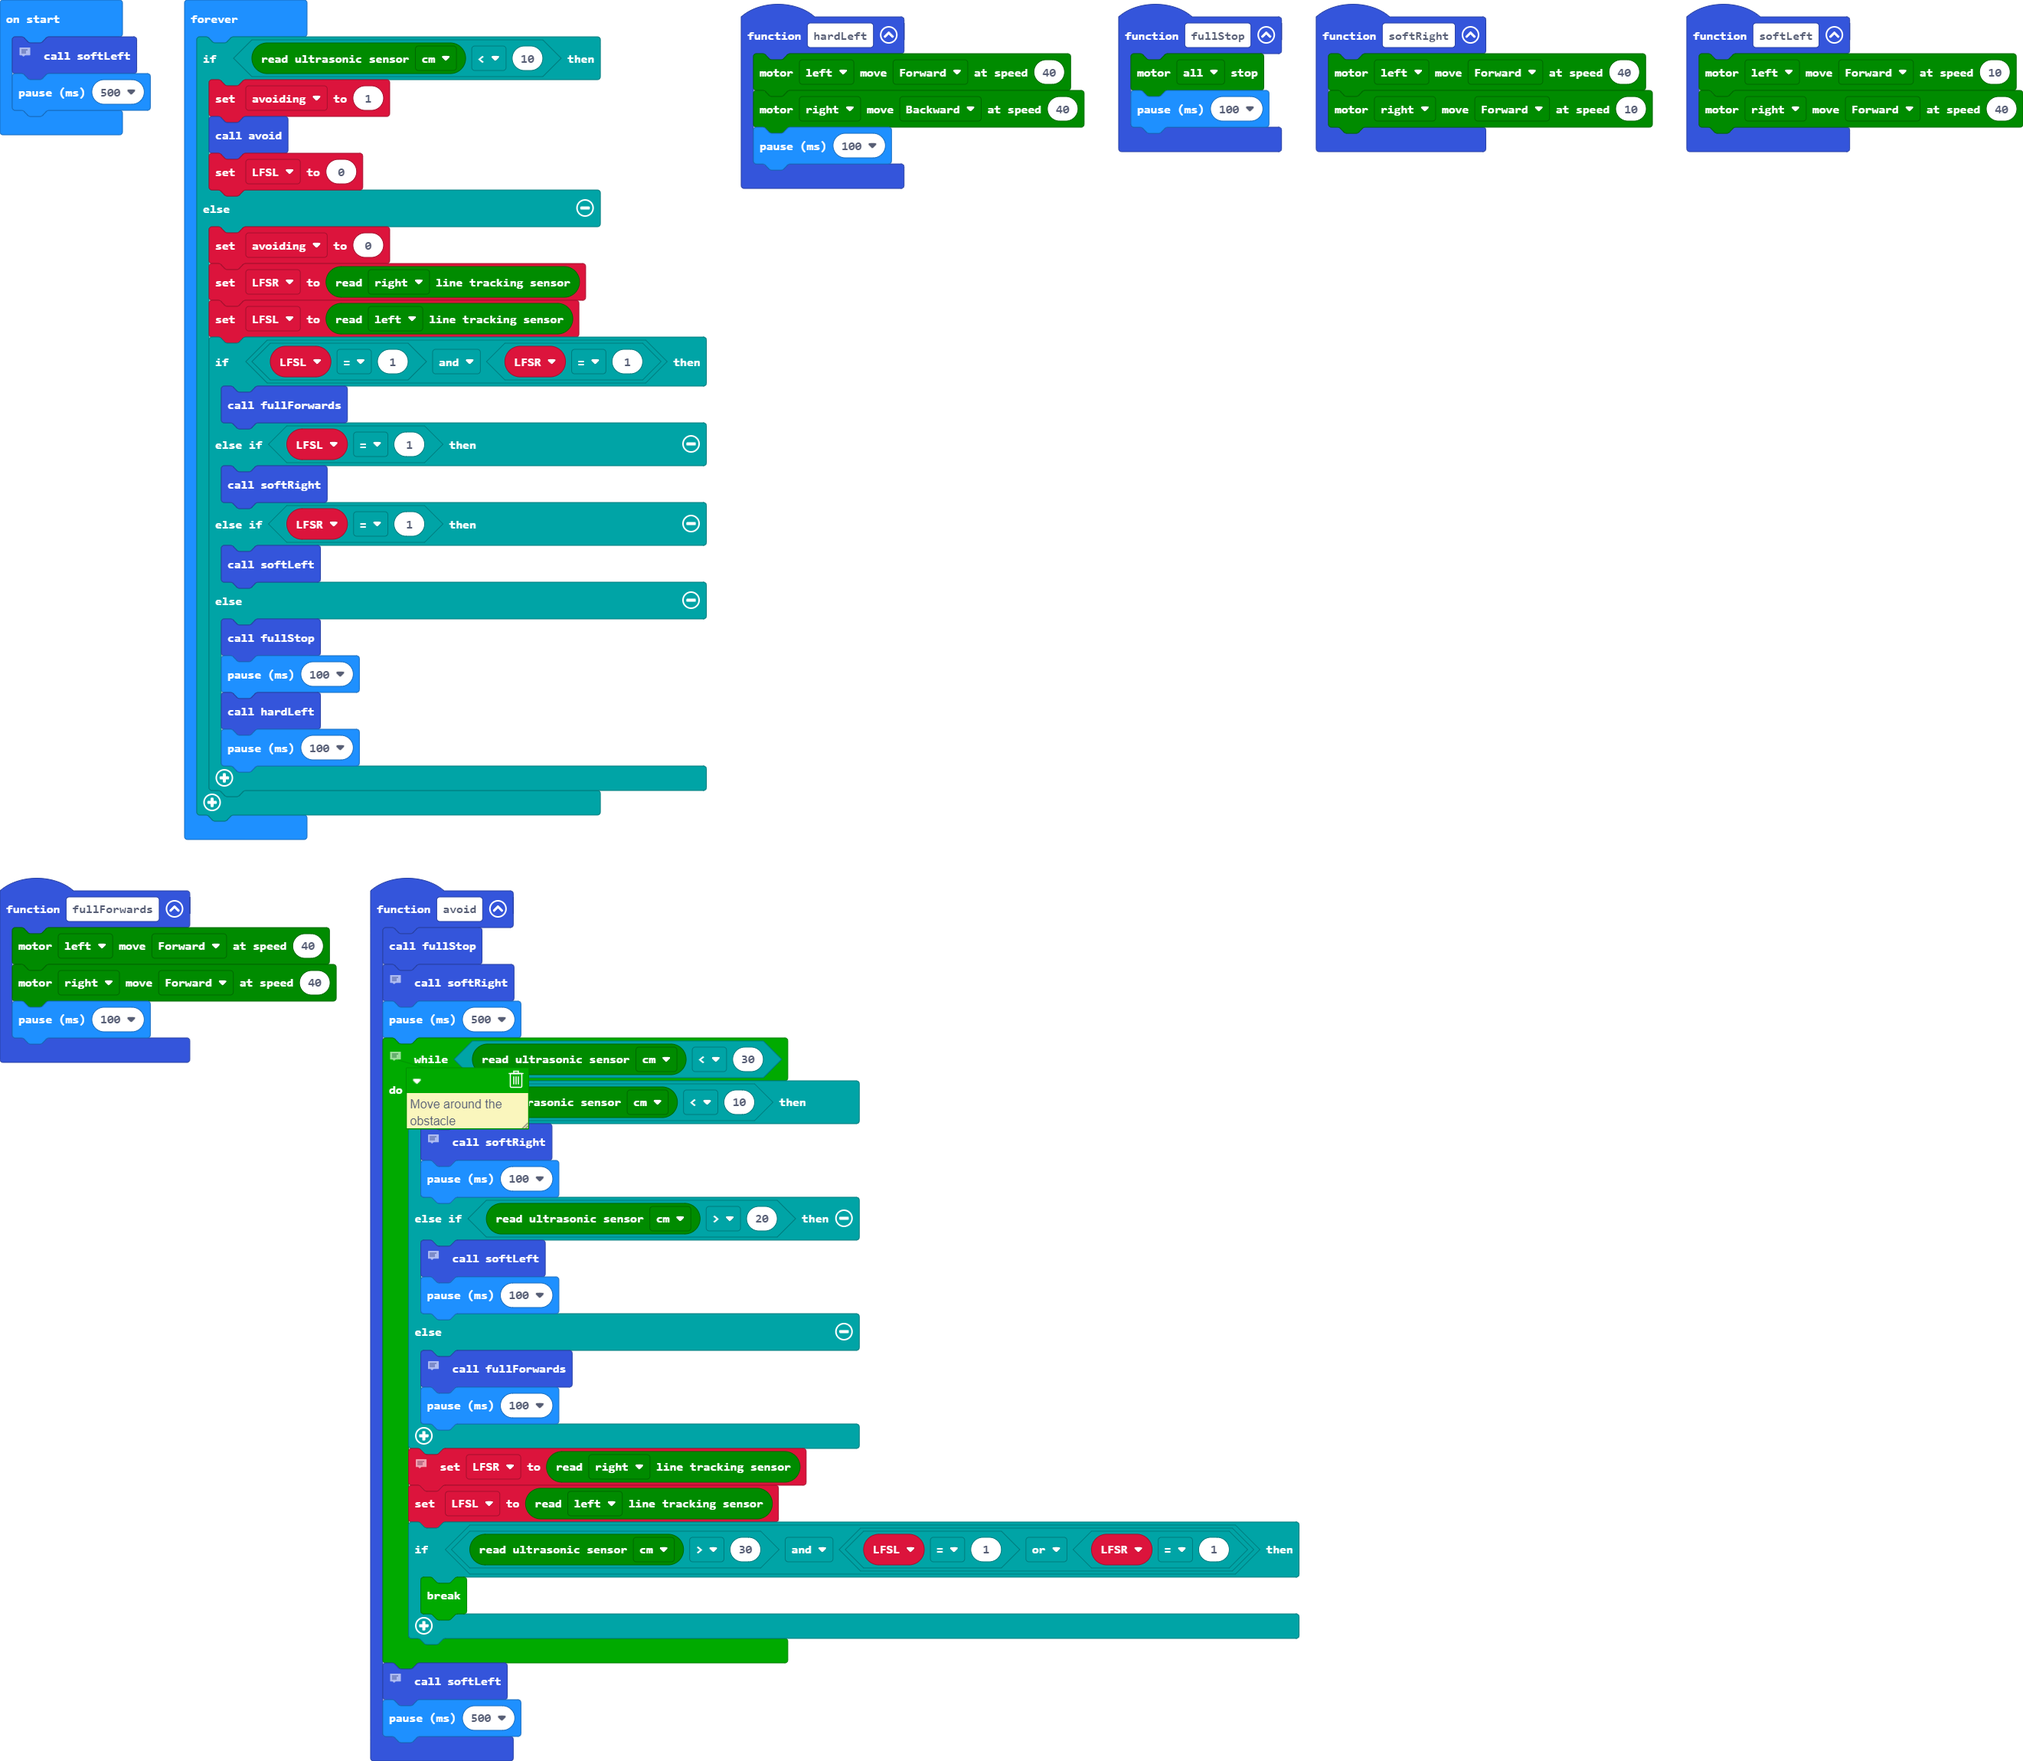
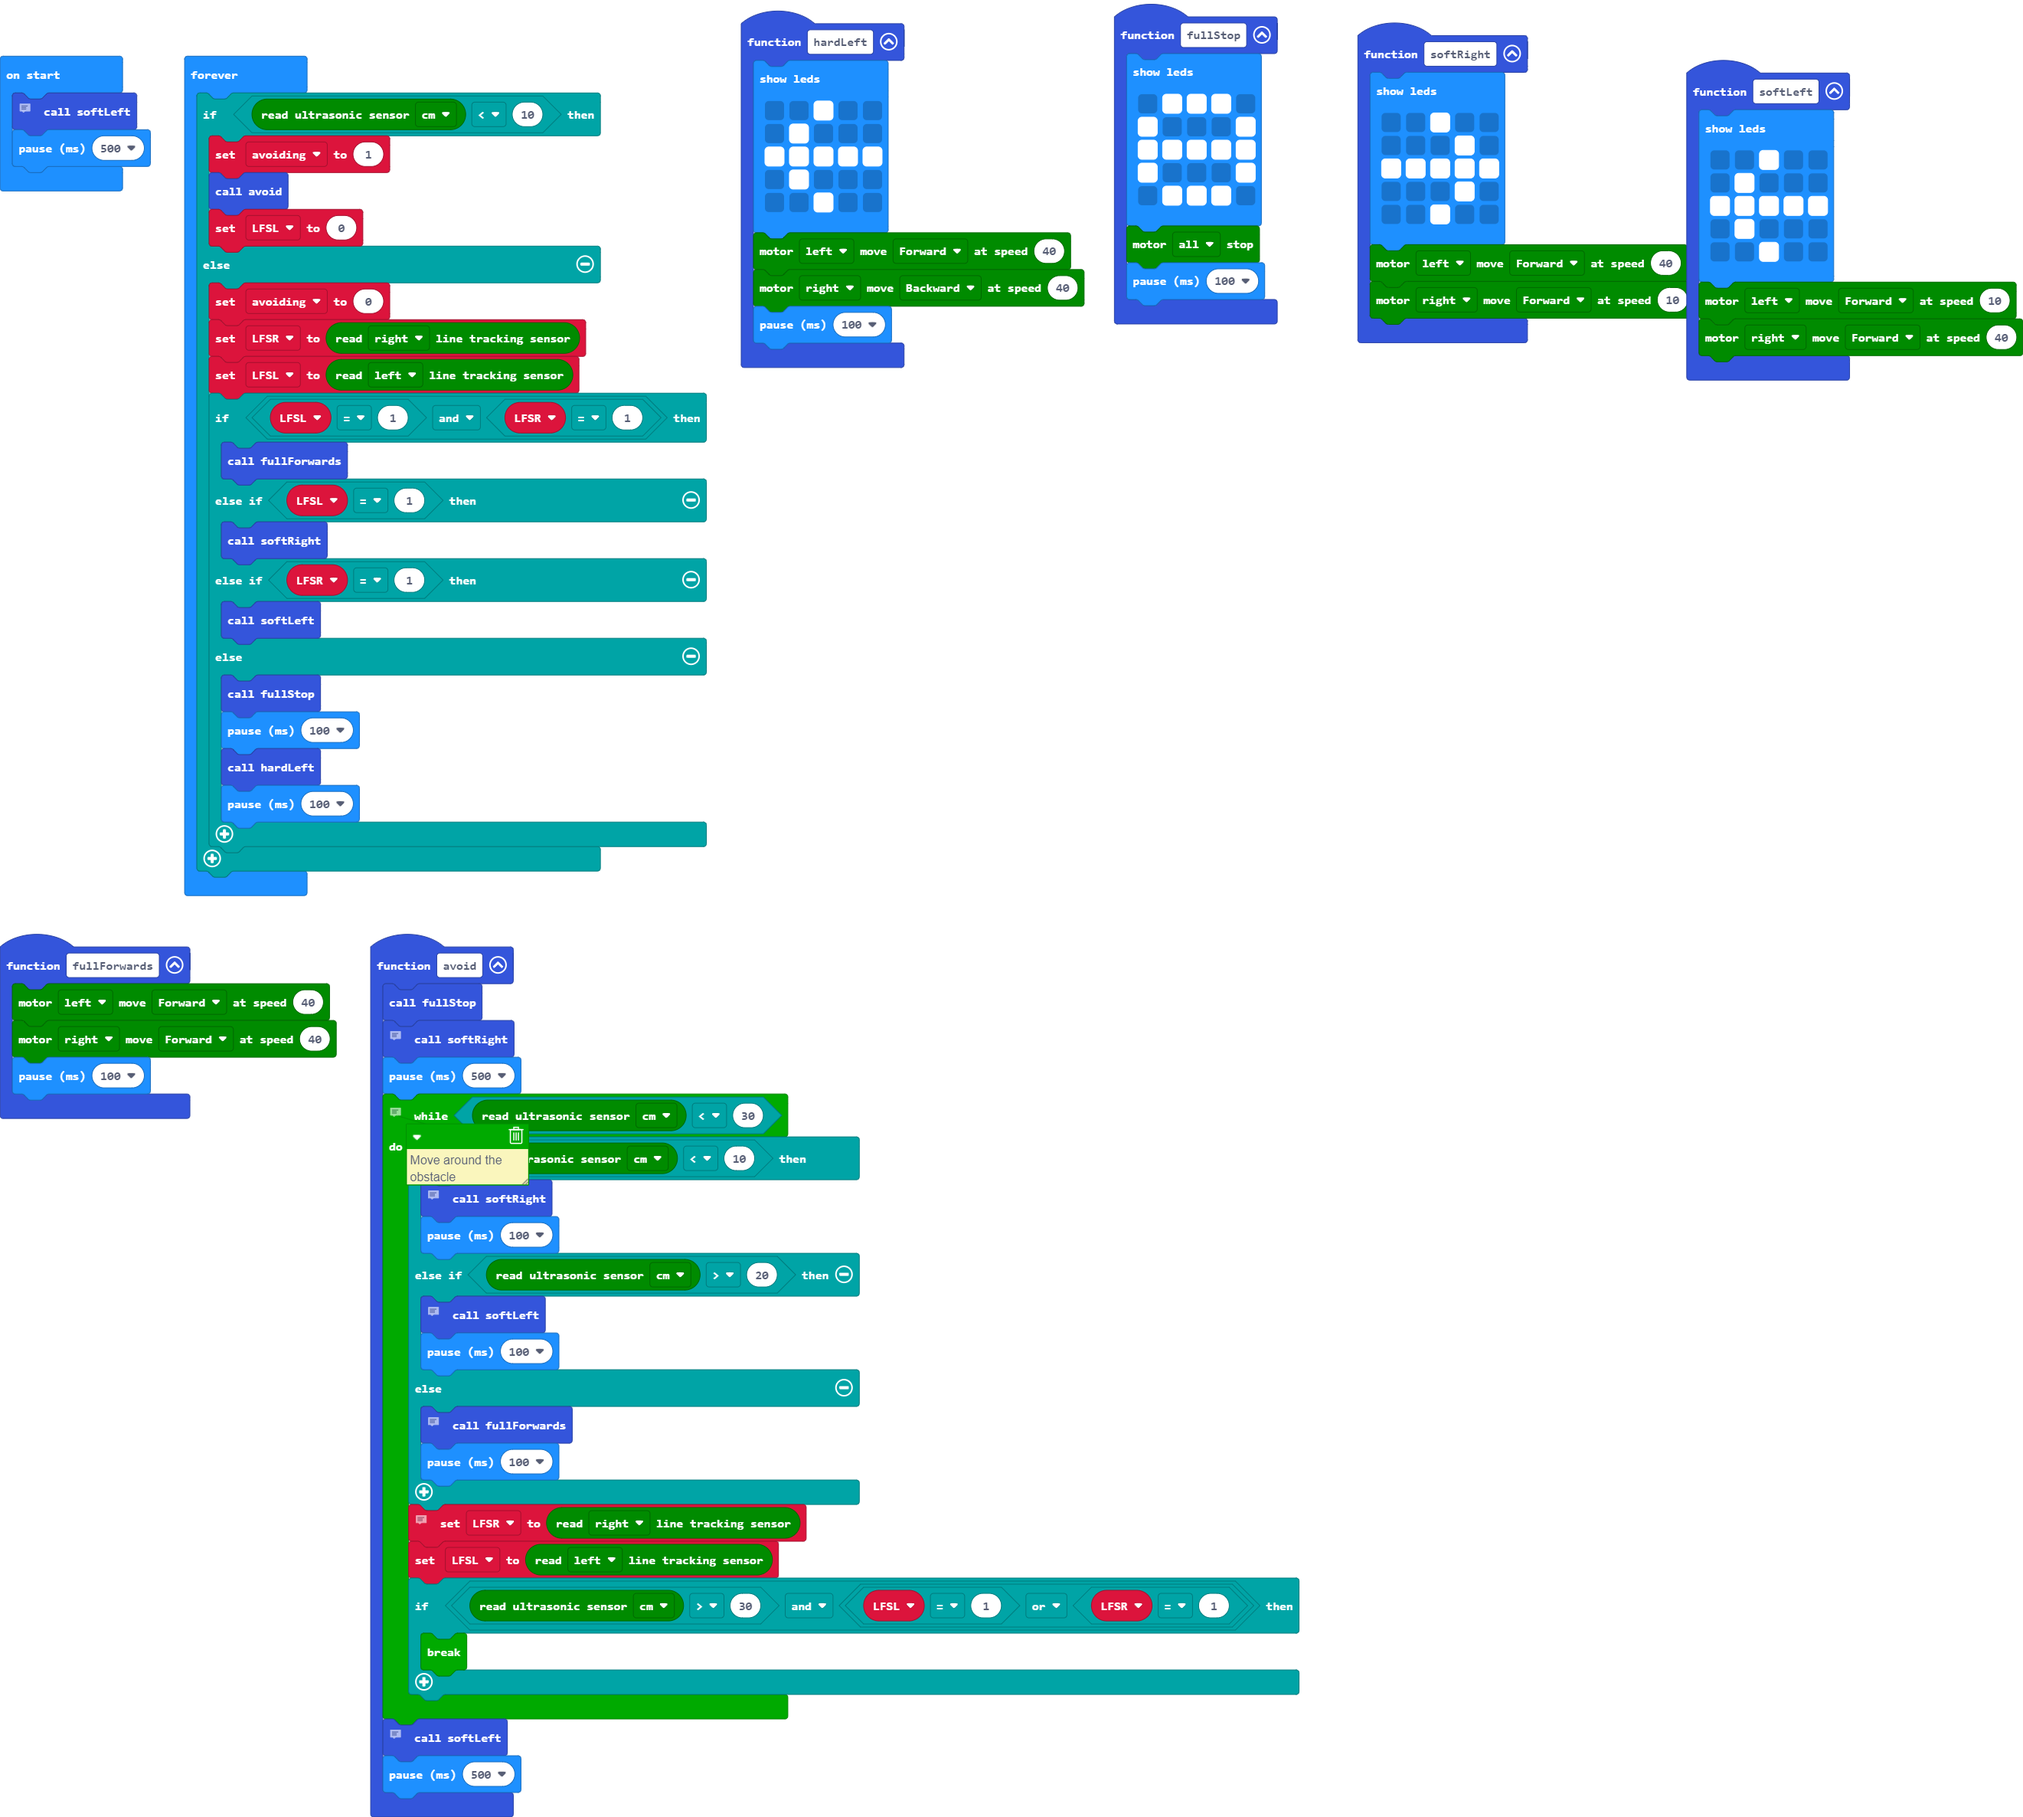
Update main.blocks, main.ts

Changed region(s): [[0.0, 0.0, 1.0, 0.9883]]

diff --git a/main.ts b/main.ts
@@ -1,4 +1,11 @@
 function hardLeft () {
+    basic.showLeds(`
+        . . # . .
+        . # . . .
+        # # # # #
+        . # . . .
+        . . # . .
+        `)
     maqueen.motorRun(maqueen.Motors.M1, maqueen.Dir.CW, 40)
     maqueen.motorRun(maqueen.Motors.M2, maqueen.Dir.CCW, 40)
     basic.pause(100)
@@ -35,14 +42,35 @@ function avoid () {
     basic.pause(500)
 }
 function fullStop () {
+    basic.showLeds(`
+        . # # # .
+        # . . . #
+        # # # # #
+        # . . . #
+        . # # # .
+        `)
     maqueen.motorStop(maqueen.Motors.All)
     basic.pause(100)
 }
 function softRight () {
+    basic.showLeds(`
+        . . # . .
+        . . . # .
+        # # # # #
+        . . . # .
+        . . # . .
+        `)
     maqueen.motorRun(maqueen.Motors.M1, maqueen.Dir.CW, 40)
     maqueen.motorRun(maqueen.Motors.M2, maqueen.Dir.CW, 10)
 }
 function softLeft () {
+    basic.showLeds(`
+        . . # . .
+        . # . . .
+        # # # # #
+        . # . . .
+        . . # . .
+        `)
     maqueen.motorRun(maqueen.Motors.M1, maqueen.Dir.CW, 10)
     maqueen.motorRun(maqueen.Motors.M2, maqueen.Dir.CW, 40)
 }
